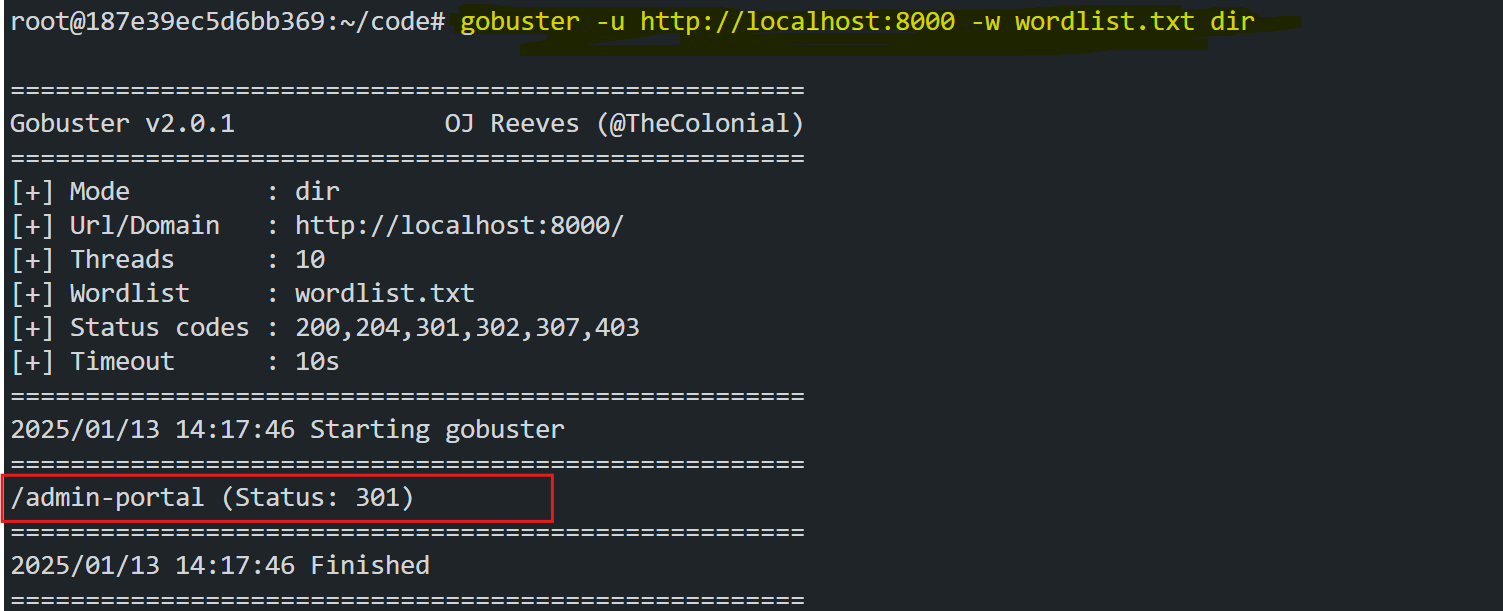
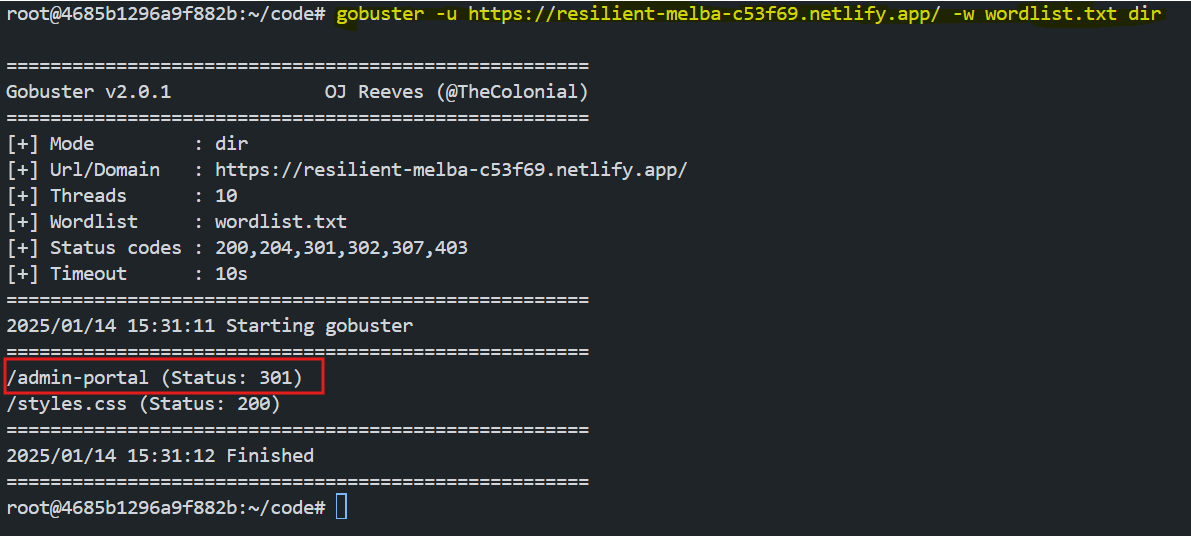
Security lab updated

Changed region(s): [[0.0, 0.0, 0.9941, 1.0]]

diff --git a/Poridhi Labs/Security Labs/Pre Security Module/Lab 01/README.md b/Poridhi Labs/Security Labs/Pre Security Module/Lab 01/README.md
@@ -46,7 +46,7 @@ Gobuster iterates through a wordlist containing potential directory and file nam
 
 #### Example Command
 ```bash
-gobuster dir -u http://example.com -w wordlist.txt -x php,html -t 50 -o results.txt
+gobuster  -u http://example.com -w wordlist.txt -x php,html -t 50 -o results.txt dir
 ```
 This command brute-forces directories on `http://example.com`, appends `.php` and `.html` to entries, uses 50 threads, and saves the output to `results.txt`.
 
@@ -67,38 +67,19 @@ Use the following commands to install Gobuster on your system:
    gobuster -h
    ```
 
-### Step 2: Clone the Application
-Clone the payment application from GitHub:
-```bash
-git clone https://github.com/Galadon123/Offensive-Security-Testing.git
-cd project
+### Step 2: Run the Application
+
+Open the `url` from any browser.
+
+```url
+https://resilient-melba-c53f69.netlify.app/
 ```
-
-### Step 3: Run the Application
-
-Start a Python HTTP server to host the application:
-
-```bash
-python3 -m http.server 8000
-```
-
-- Create a loadbalancer in Poridi's cloud with the `eth0` ip and port `8000`.
-
-- To find the `eth0` ip, run the following command:
-
-```bash
-ifconfig
-```
-
-   ![](https://raw.githubusercontent.com/poridhiEng/poridhi-labs/22714674d1ddbf000554adc16fd9d31e247878a7/Poridhi%20Labs/Security%20Labs/Lab%2001/images/1.png)
-
-- With the Loadbalancer `URL` access the application from any browser.
 
    ![](./images/2.png)
 
 In this page, you can see the payment status of the user. Which is currently in `Pending` state. Suppoose this application has a `Admin Portal` where the admin can change the payment status of the user which is only accessible to the admin. But if we find the hidden path to the `Admin Portal`, we can access it and change the payment status of the user. Hackers use various tools to find this kind of hidden paths. One of the most common tools is `Gobuster`. In this lab, we will use `Gobuster` to find the hidden path to the `Admin Portal` and change the payment status of the user with the predefine wordlist.
 
-### Step 4: Create a Wordlist
+### Step 3: Create a Wordlist
 
 In some third party websites, you will find various wordlists that were already created by different communities. Hackers use those wordlists or create their own wordlists to find the hidden paths. Create a file named `wordlist.txt` with the following contents:
 
@@ -109,19 +90,19 @@ script.js
 favicon.ico
 ```
 
-### Step 5: Run Gobuster
+### Step 4: Run Gobuster
 Run Gobuster with the wordlist to discover open pages:
 ```bash
-gobuster dir -u http://localhost:8000 -w wordlist.txt -v
+gobuster -u https://resilient-melba-c53f69.netlify.app/ -w wordlist.txt dir
 ```
-In this command, `gobuster dir` is used to brute-force directories, `-u http://localhost:8000` specifies the target URL, `-w wordlist.txt` provides the wordlist, and `-v` enables verbose output.
+In this command, `gobuster dir` is used to brute-force directories, `-u https://resilient-melba-c53f69.netlify.app` specifies the target URL, `-w wordlist.txt` provides the wordlist, and `-v` enables verbose output.
 
 ![](./images/1.png)
 
 In output, you can see the hidden path to the `Admin Portal` which is `/admin-portal`.
 
-### Step 6: Exploit the Admin Portal
-1. Open `http://localhost:8000/admin-portal` in a browser.
+### Step 5: Exploit the Admin Portal
+1. Open `https://resilient-melba-c53f69.netlify.app/admin-portal` in a browser.
 
    ![](./images/3.png)
 
@@ -129,8 +110,8 @@ In output, you can see the hidden path to the `Admin Portal` which is `/admin-po
 
    ![](./images/4.png)
 
-### Step 7: Verify the Exploit
-1. Navigate to the dashboard `http://localhost:8000` and confirm that the payment status reflects the changes made in the admin portal.
+### Step 6: Verify the Exploit
+1. Navigate to the dashboard `https://resilient-melba-c53f69.netlify.app/` and confirm that the payment status reflects the changes made in the admin portal.
 
    ![](./images/5.png)
 2. Verify the status persistence by refreshing the page.

diff --git a/Poridhi Labs/Security Labs/Pre Security Module/Lab 01/Gobuster.md b/Poridhi Labs/Security Labs/Pre Security Module/Lab 01/Gobuster.md
@@ -62,13 +62,13 @@ Discover hidden directories and files on a web server.
 #### Example:
 
 ```bash
-gobuster dir -u http://example.com -w wordlist.txt
+gobuster -u http://example.com -w wordlist.txt dir
 ```
 ```bash
-gobuster dir -u http://example.com -w wordlist.txt -x php,html,txt
+gobuster -u http://example.com -w wordlist.txt -x php,html,txt dir
 ```
 ```bash
-gobuster dir -u http://example.com -w wordlist.txt -s 200,301,302,307
+gobuster -u http://example.com -w wordlist.txt -s 200,301,302,307 dir
 ```
 
 
@@ -86,16 +86,16 @@ Identify all the subdomains for a given domain.
 #### Example:
 
 ```bash
-gobuster dns -d example.com -w subdomains.txt
+gobuster -d example.com -w subdomains.txt dns
 ```
 ```bash
-gobuster dns -d example.com -w subdomains.txt -r 8.8.8.8
+gobuster -d example.com -w subdomains.txt -r 8.8.8.8 dns
 ```
 ```bash
-gobuster dns -d example.com -w subdomains.txt -z
+gobuster -d example.com -w subdomains.txt -z dns
 ```
 ```bash
-gobuster dns -d example.com -w subdomains.txt -i
+gobuster -d example.com -w subdomains.txt -i dns
 ```
 
 ### 3. Virtual Host Discovery
@@ -112,13 +112,13 @@ Find virtual hosts configured on a server. Virtual hosts are the subdomains that
 #### Example:
 
 ```bash
-gobuster vhost -u http://example.com -w vhosts.txt
+gobuster -u http://example.com -w vhosts.txt vhost
 ```
 ```bash
-gobuster vhost -u http://example.com -w vhosts.txt -k
+gobuster -u http://example.com -w vhosts.txt -k vhost
 ```
 ```bash
-gobuster vhost -u http://example.com -w vhosts.txt -o vhosts.txt
+gobuster -u http://example.com -w vhosts.txt -o vhosts.txt vhost
 ```
 
 ### 4. S3 Bucket Enumeration
@@ -134,13 +134,13 @@ Enumerate AWS S3 buckets. Buckets are the containers that are used to store the 
 #### Example:
 
 ```bash
-gobuster s3 -w bucket-names.txt
+gobuster -w bucket-names.txt s3
 ```
 ```bash
-gobuster s3 -w bucket-names.txt -v
+gobuster -w bucket-names.txt -v s3
 ```
 ```bash
-gobuster s3 -w bucket-names.txt -t 10
+gobuster -w bucket-names.txt -t 10 s3
 ```
 
 
